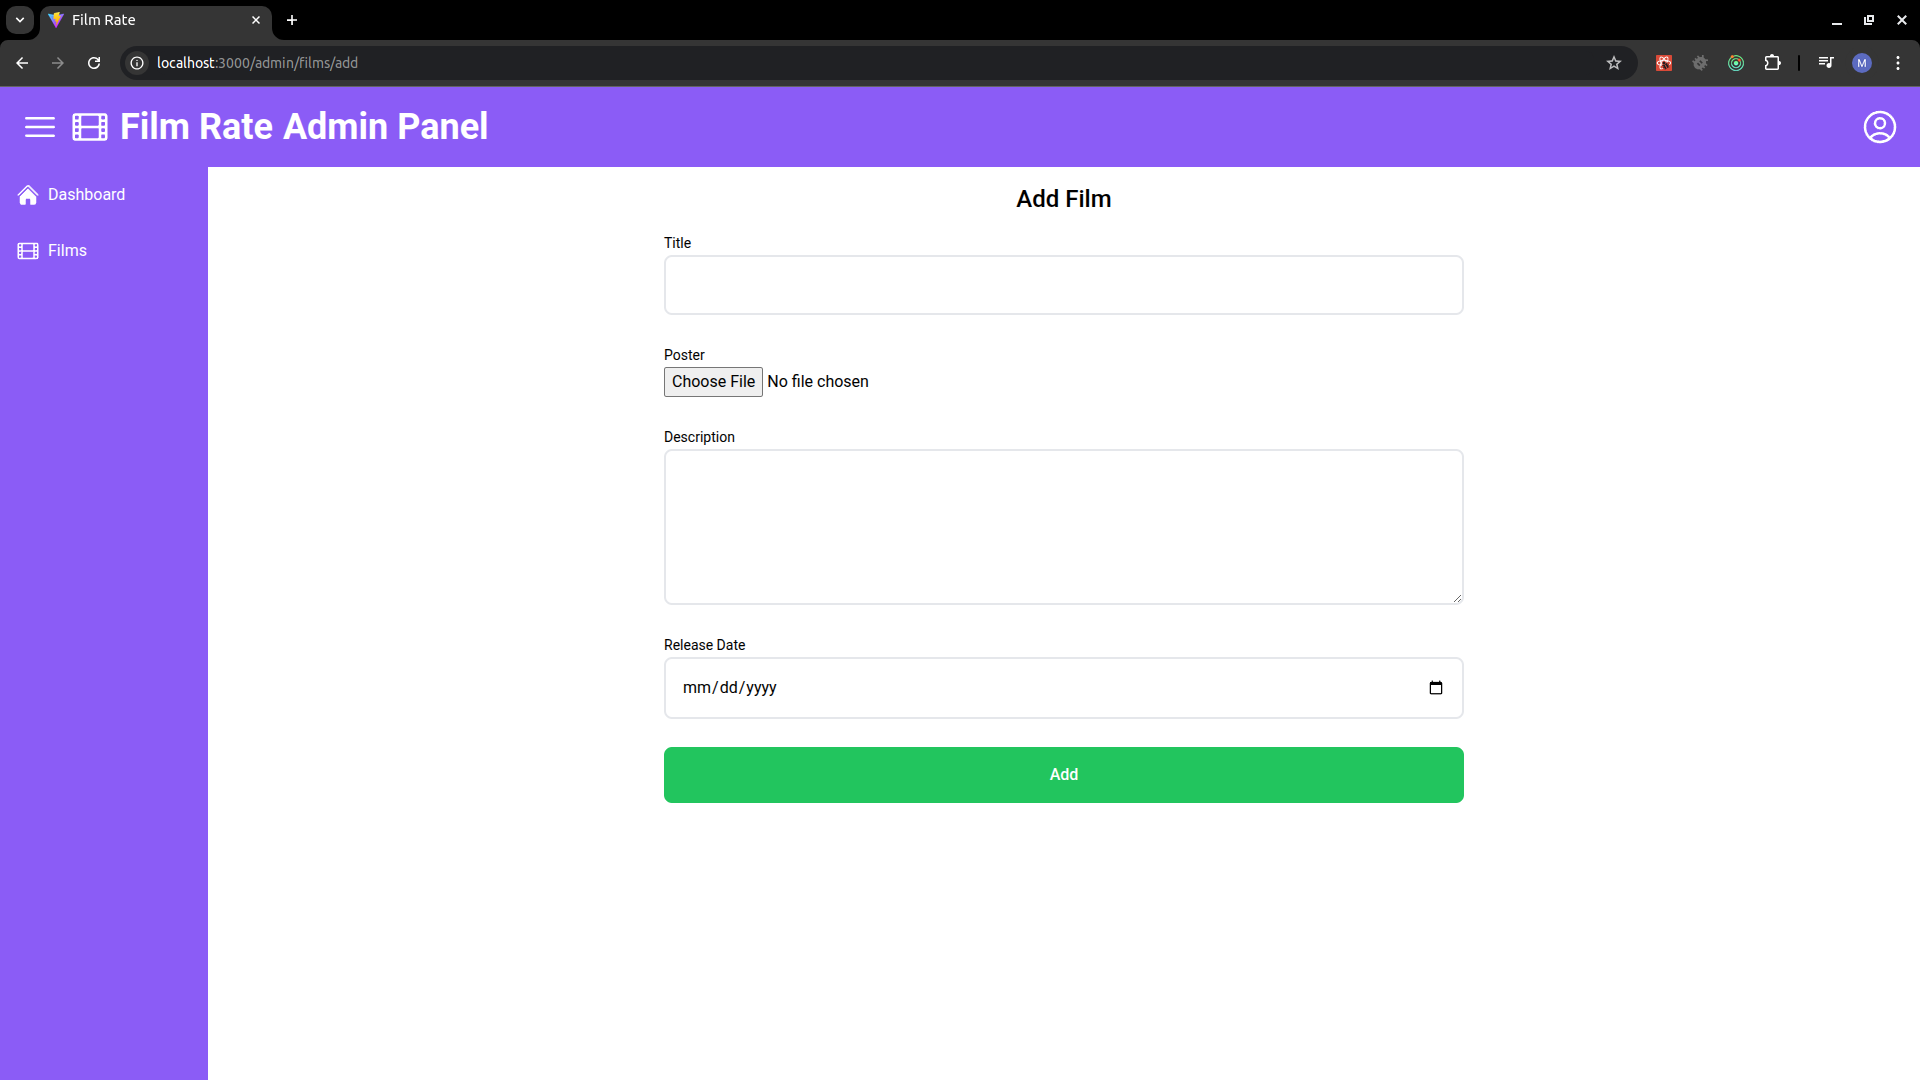
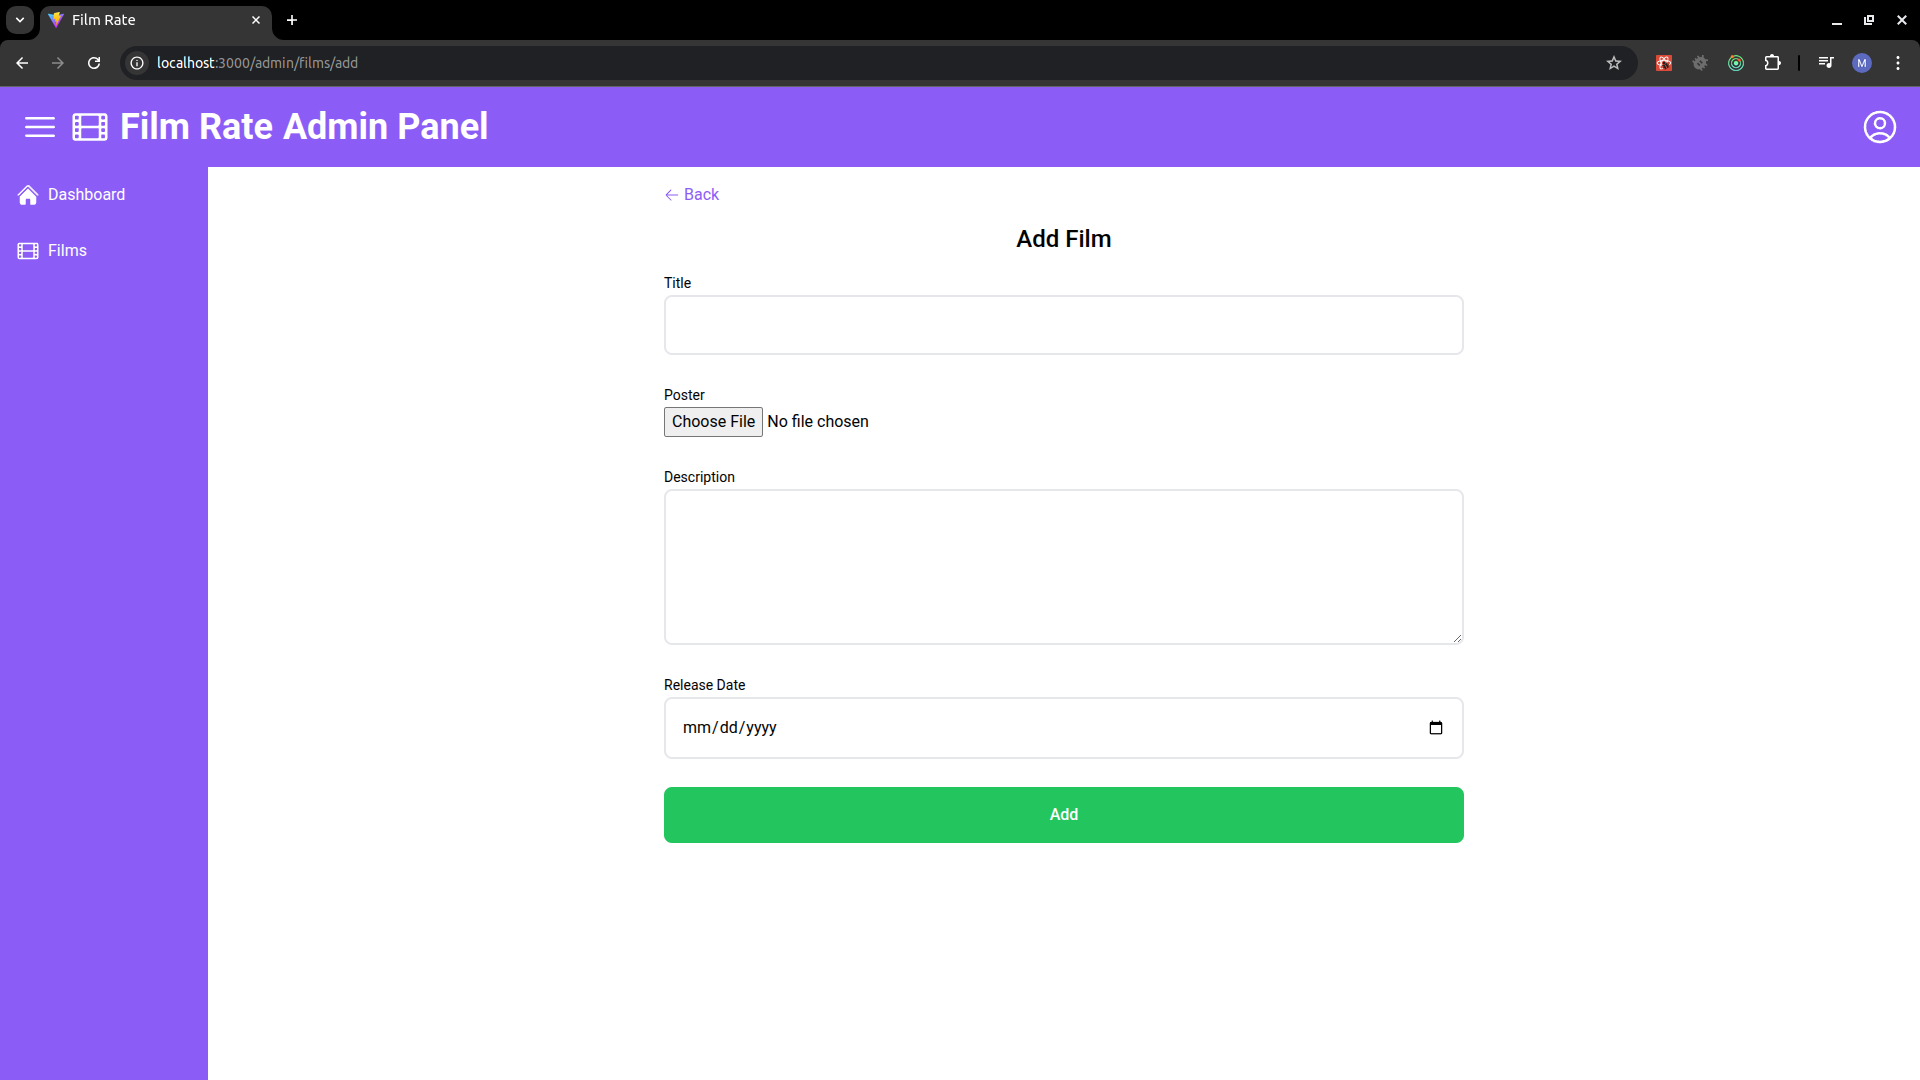
Update: README.md, BE .env; fixes

diff --git a/frontend/src/views/pages/Index.tsx b/frontend/src/views/pages/Index.tsx
@@ -47,13 +47,19 @@ const Index = () => {
     };
 
     const renderFilmTiles = (films: IBaseFilm[]) =>
-        films.map(film => (
-            <FilmTile
-                key={film.id}
-                film={film}
-                onRateButtonClick={showRateFilmModal}
-            />
-        ));
+        films.length > 0 ? (
+            films.map(film => (
+                <FilmTile
+                    key={film.id}
+                    film={film}
+                    onRateButtonClick={showRateFilmModal}
+                />
+            ))
+        ) : (
+            <div className="col-span-2 md:col-span-4 text-center">
+                No films found
+            </div>
+        );
 
     return (
         <div className="grid grid-cols-2 gap-2 md:grid-cols-4 md:gap-4">

diff --git a/backend/src/controllers/FilmController.ts b/backend/src/controllers/FilmController.ts
@@ -75,8 +75,9 @@ export class FilmController {
     @HttpCode(HttpStatus.NO_CONTENT)
     @ApiBearerAuth()
     @ApiOperation({
-        summary: 'Rate film',
-        description: 'Endpoint for rating film'
+        summary: 'Add / edit rate',
+        description:
+            'Endpoint for rating a film - adding rate or editing existing one'
     })
     @ApiNoContentResponse({
         description: 'Film rated successfully'
@@ -105,7 +106,7 @@ export class FilmController {
     @HttpCode(HttpStatus.NO_CONTENT)
     @ApiBearerAuth()
     @ApiOperation({
-        summary: 'Remove rate from film',
+        summary: 'Remove rate',
         description: 'Endpoint for removing rate from film'
     })
     @ApiNoContentResponse({

diff --git a/frontend/src/views/pages/admin/films/Add.tsx b/frontend/src/views/pages/admin/films/Add.tsx
@@ -7,6 +7,7 @@ import {
 import { useFormik } from 'formik';
 
 import StoreSchema from '@/validators/film/StoreSchema';
+import BackButton from '@/components/atoms/common/BackButton';
 import ValidationMessage from '@/components/atoms/forms/ValidationMessage';
 
 import type {
@@ -54,6 +55,8 @@ const Add = () => {
 
     return (
         <div className="flex flex-col flex-grow gap-4 max-w-200">
+            <BackButton to="/admin/films" />
+
             <h1 className="text-2xl text-center font-medium">Add Film</h1>
 
             <Form method="post" onSubmit={formik.handleSubmit}>

diff --git a/README.md b/README.md
@@ -167,7 +167,7 @@ Run backend in dev mode.
 npm run start:dev
 ```
 
-Clear cache if necessary
+Clear cache if necessary (for default `REDIS_CACHE_PASS`)
 
 ```
 npm run redis-cache-flush
